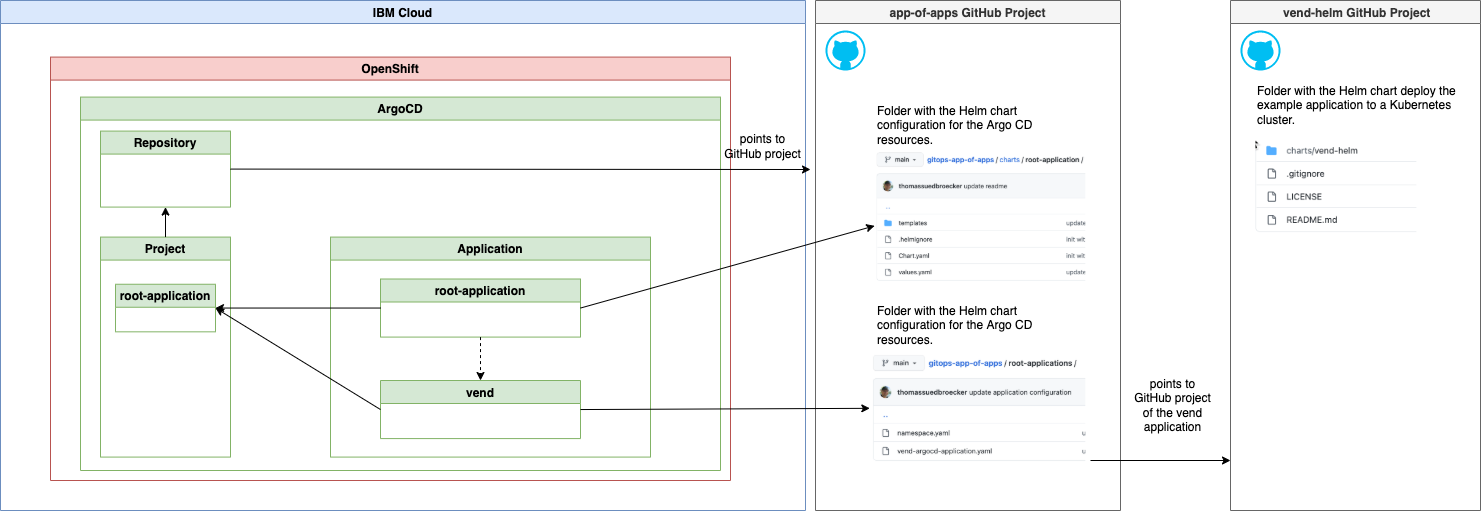
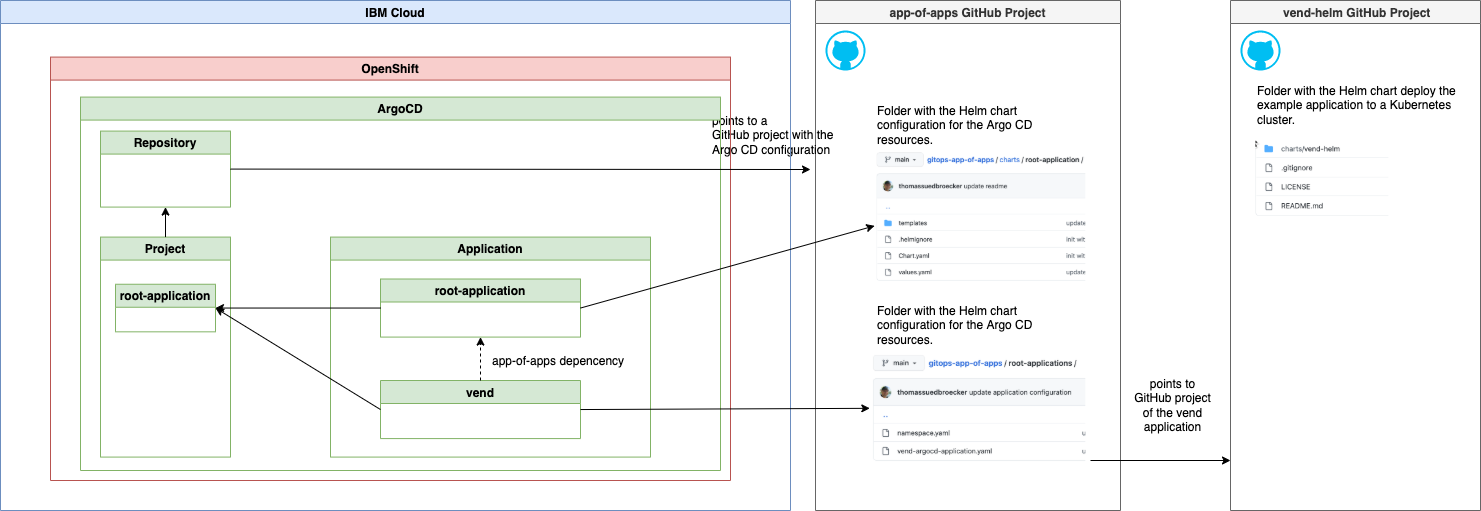
update readme

diff --git a/README.md b/README.md
@@ -2,22 +2,24 @@
 
 This is an example to setup an [app-of-apps pattern in ArgoCD](https://argo-cd.readthedocs.io/en/stable/operator-manual/cluster-bootstrapping/).
 
-As a starting point we are using the setup which can be created with the blog post called ["Use Software Everywhere and IasCable to setup GitOps on a Red Hat OpenShift Cluster in a Virtual Private Cloud on IBM Cloud"](https://wp.me/paelj4-1tZ). 
+As a starting point we are using the which can be created by following the blog post called ["Use Software Everywhere and IasCable to setup GitOps on a Red Hat OpenShift Cluster in a Virtual Private Cloud on IBM Cloud"](https://wp.me/paelj4-1tZ), please at the this blog post for details. 
 
-That means our starting point is, we have following in place:
+Our starting point:
 
 * IBM Cloud is used
 * Red Hat OpenShift in a VPC is setup
 * Argo CD is setup and initial bootstap configured
 
-And we are going to use:
+And we are going to use ...
 
-* Existing GitHub repositories:
+* ... two existing GitHub repositories:
+
     * One GitHub repository for the Argo CD configurations
     * One GitHub repository for the example application called vend
-* We will deploy the `app-of-apps` with a Helm chart to our cluster
 
-In that example we don't use the [configured bootstap resoures](https://github.com/cloud-native-toolkit/terraform-tools-gitops) for Argo CD `repository`, `project` and `application` provided by the [Software Everywhere](https://github.com/cloud-native-toolkit/software-everywhere) module called [terraform-tools-gitops](https://github.com/cloud-native-toolkit/terraform-tools-gitops).
+* ... Helm to the `app-of-apps` the `vend example` application to our cluster
+
+In current example we won't use the [pre-configured bootstap resoures](https://github.com/cloud-native-toolkit/terraform-tools-gitops) for Argo CD resources, created by the [Software Everywhere](https://github.com/cloud-native-toolkit/software-everywhere) module called [terraform-tools-gitops](https://github.com/cloud-native-toolkit/terraform-tools-gitops).
 
 
 ## Simplified architecture overview
